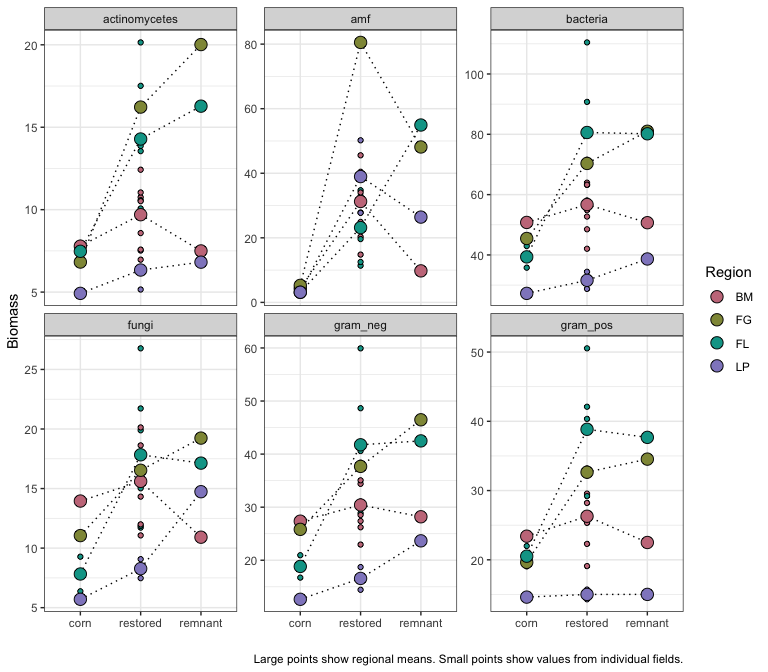
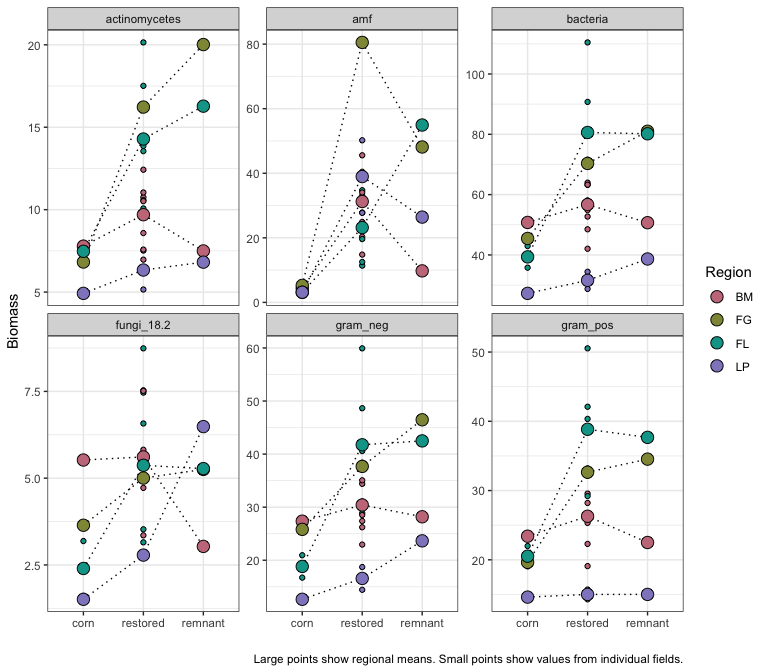
UPDATED biomass files

diff --git a/microbial_biomass.md b/microbial_biomass.md
@@ -2,7 +2,7 @@ Microbial data: fatty acids (biomass)
 ================
 Beau Larkin
 
-Last updated: 15 December, 2023
+Last updated: 29 October, 2024
 
 - [Description](#description)
 - [Packages and libraries](#packages-and-libraries)
@@ -17,11 +17,11 @@ Last updated: 15 December, 2023
 
 # Description
 
-Microbial data include site-species tables derived from high-throughput
-sequencing and PLFA/NLFA data which Ylva did.
-
 This presents basic visualizations of microbial biomass inferred with
-PLFA/NLFA quantification.
+PLFA/NLFA quantification done by YL.
+
+**Note:** Only fatty acid 18.2 is used for fungi because 18.2w9 is also
+found in gram-negative bacteria.
 
 # Packages and libraries
 
@@ -78,8 +78,9 @@ fa_meta <-
     left_join(fa, by = c("field_key", "field_name"))
 fa_grp <- 
     fa_meta %>% 
-    select(-starts_with("fa_")) %>% 
-    pivot_longer(cols = gram_pos:nlfa_plfa_ratio, names_to = "group", values_to = "qty")
+    rename(fungi_18.2 = fa_18.2) %>% 
+    select(-starts_with("fa_"), -fungi) %>% 
+    pivot_longer(cols = fungi_18.2:nlfa_plfa_ratio, names_to = "group", values_to = "qty")
 ```
 
 # Results
@@ -209,11 +210,6 @@ fa_pca %>% summary(., display = NULL)
     ## Eigenvalue            5.126e-04
     ## Proportion Explained  2.698e-05
     ## Cumulative Proportion 1.000e+00
-    ## 
-    ## Scaling 2 for species and site scores
-    ## * Species are scaled proportional to eigenvalues
-    ## * Sites are unscaled: weighted dispersion equal on all dimensions
-    ## * General scaling constant of scores:
 
 Axes 1 and 2 explain 85% of the variation in sites.
 
@@ -264,11 +260,6 @@ fa_sum_pca %>% summary(., display = NULL)
     ## Eigenvalue            4.8846 0.8460 0.19677 0.052786 0.019770
     ## Proportion Explained  0.8141 0.1410 0.03279 0.008798 0.003295
     ## Cumulative Proportion 0.8141 0.9551 0.98791 0.996705 1.000000
-    ## 
-    ## Scaling 2 for species and site scores
-    ## * Species are scaled proportional to eigenvalues
-    ## * Sites are unscaled: weighted dispersion equal on all dimensions
-    ## * General scaling constant of scores:
 
 Axes 1 and 2 explain 96% of the variation in sites.
 
